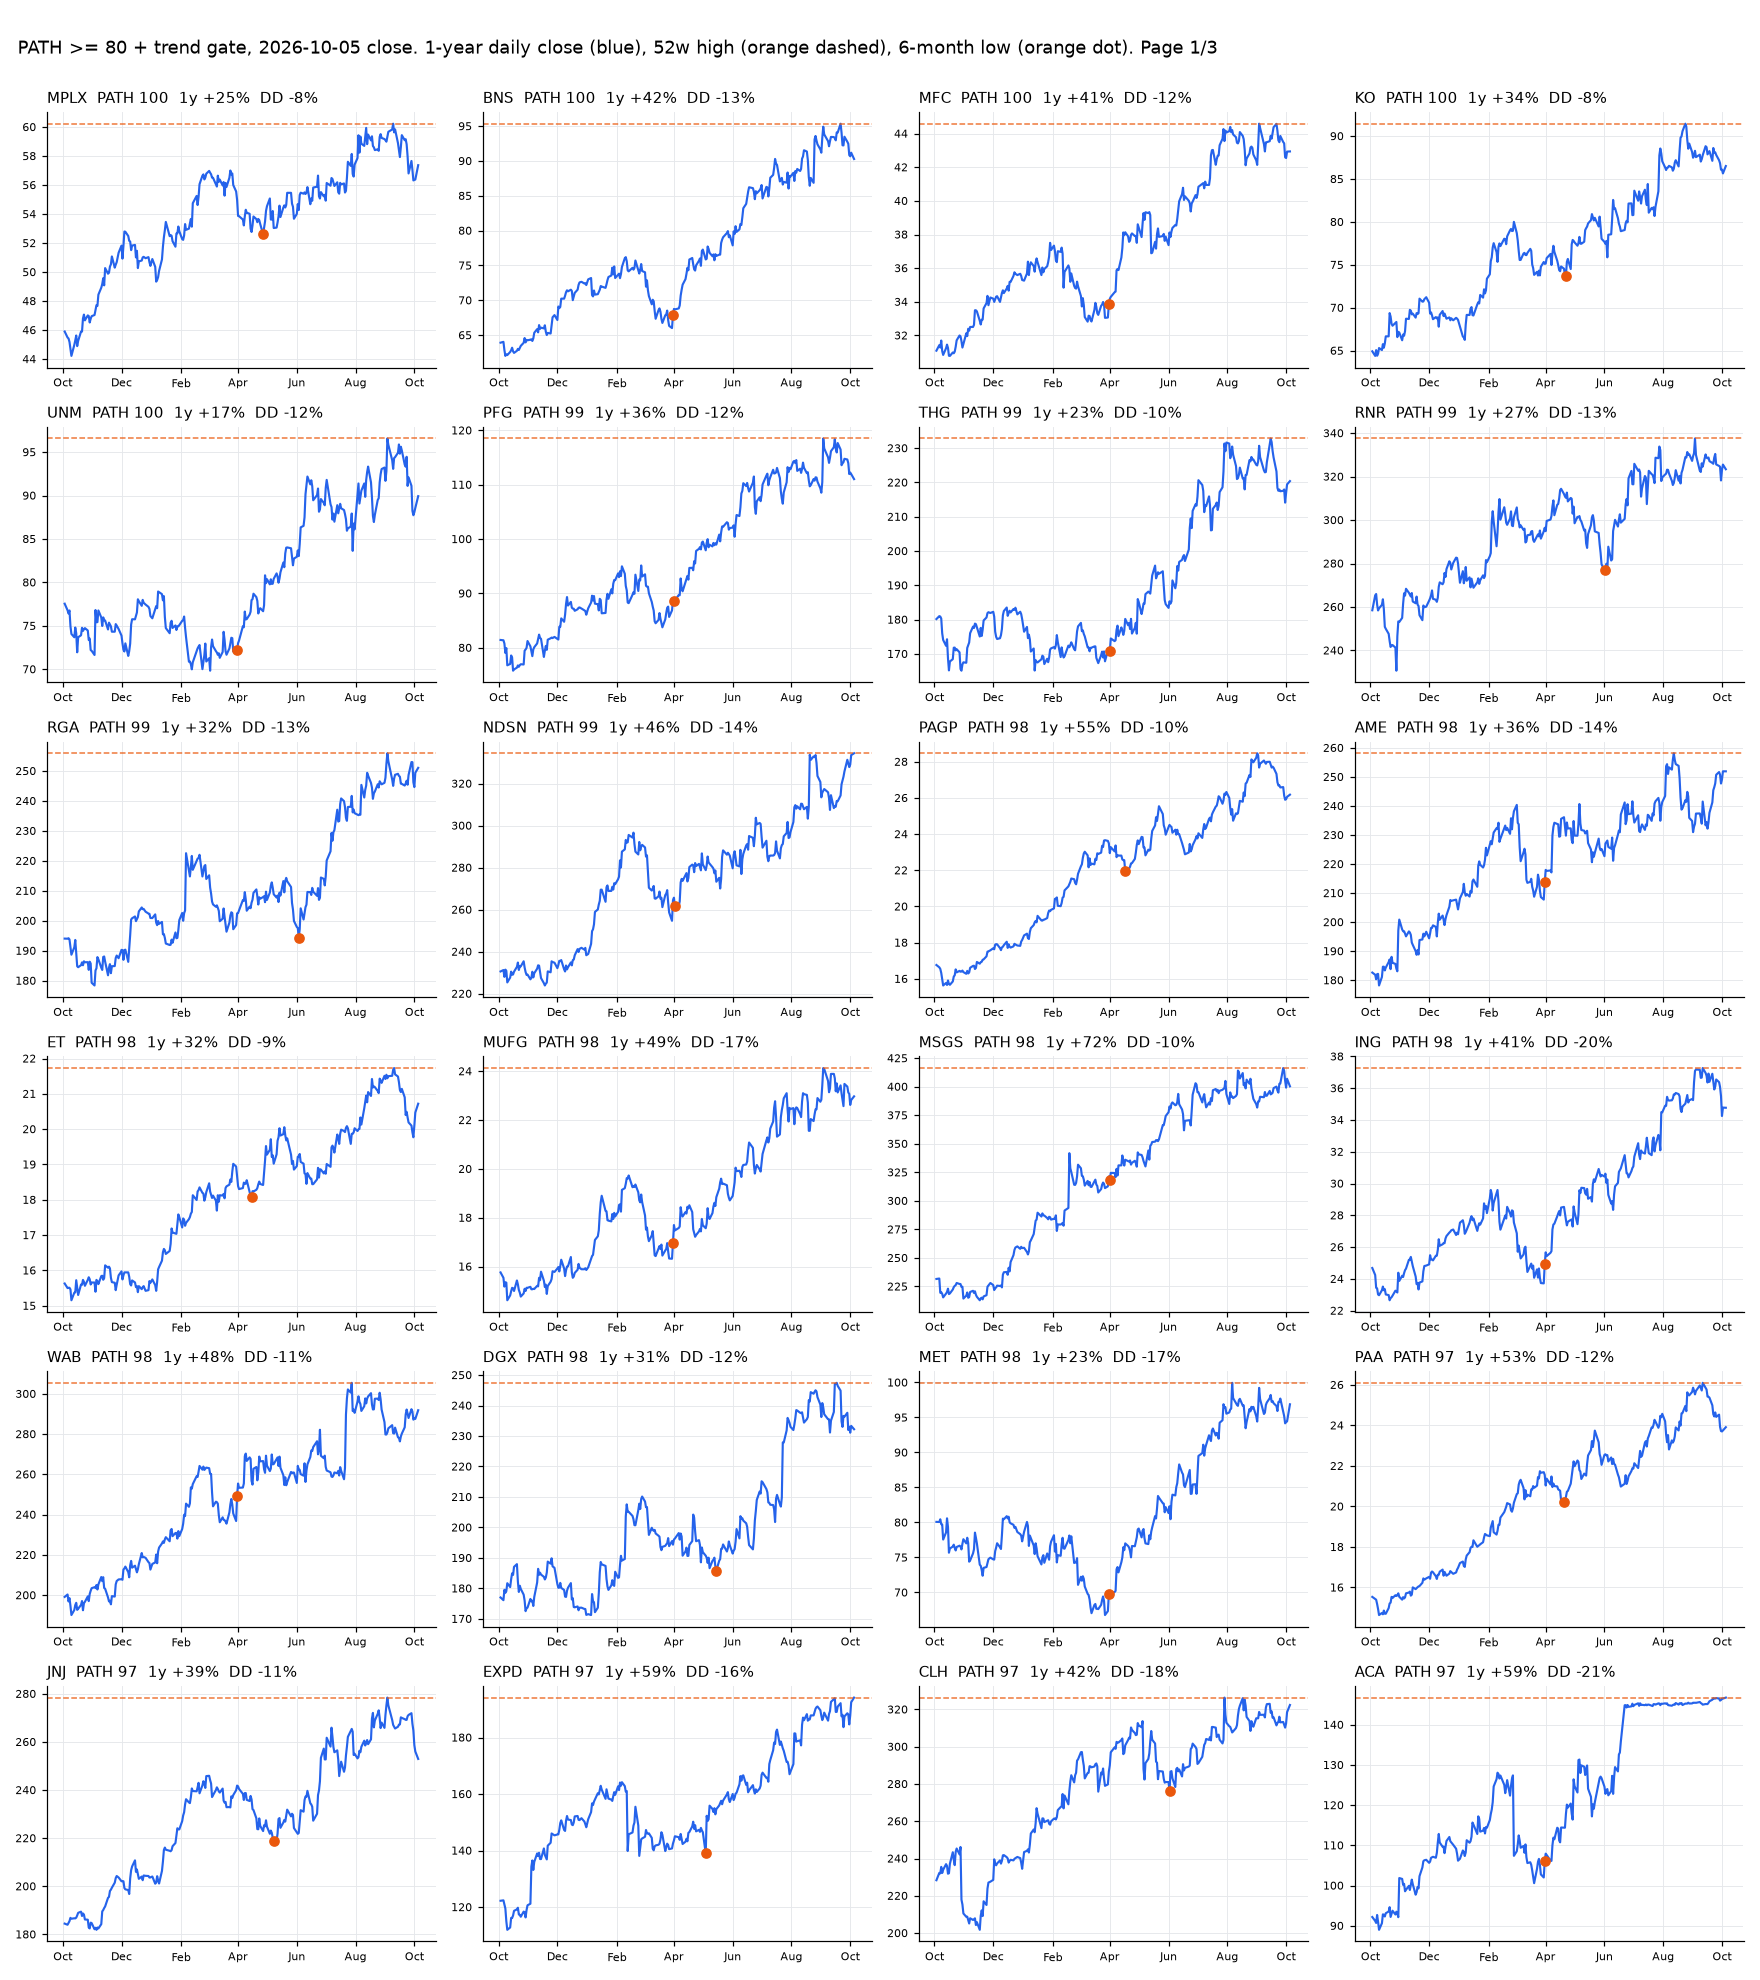
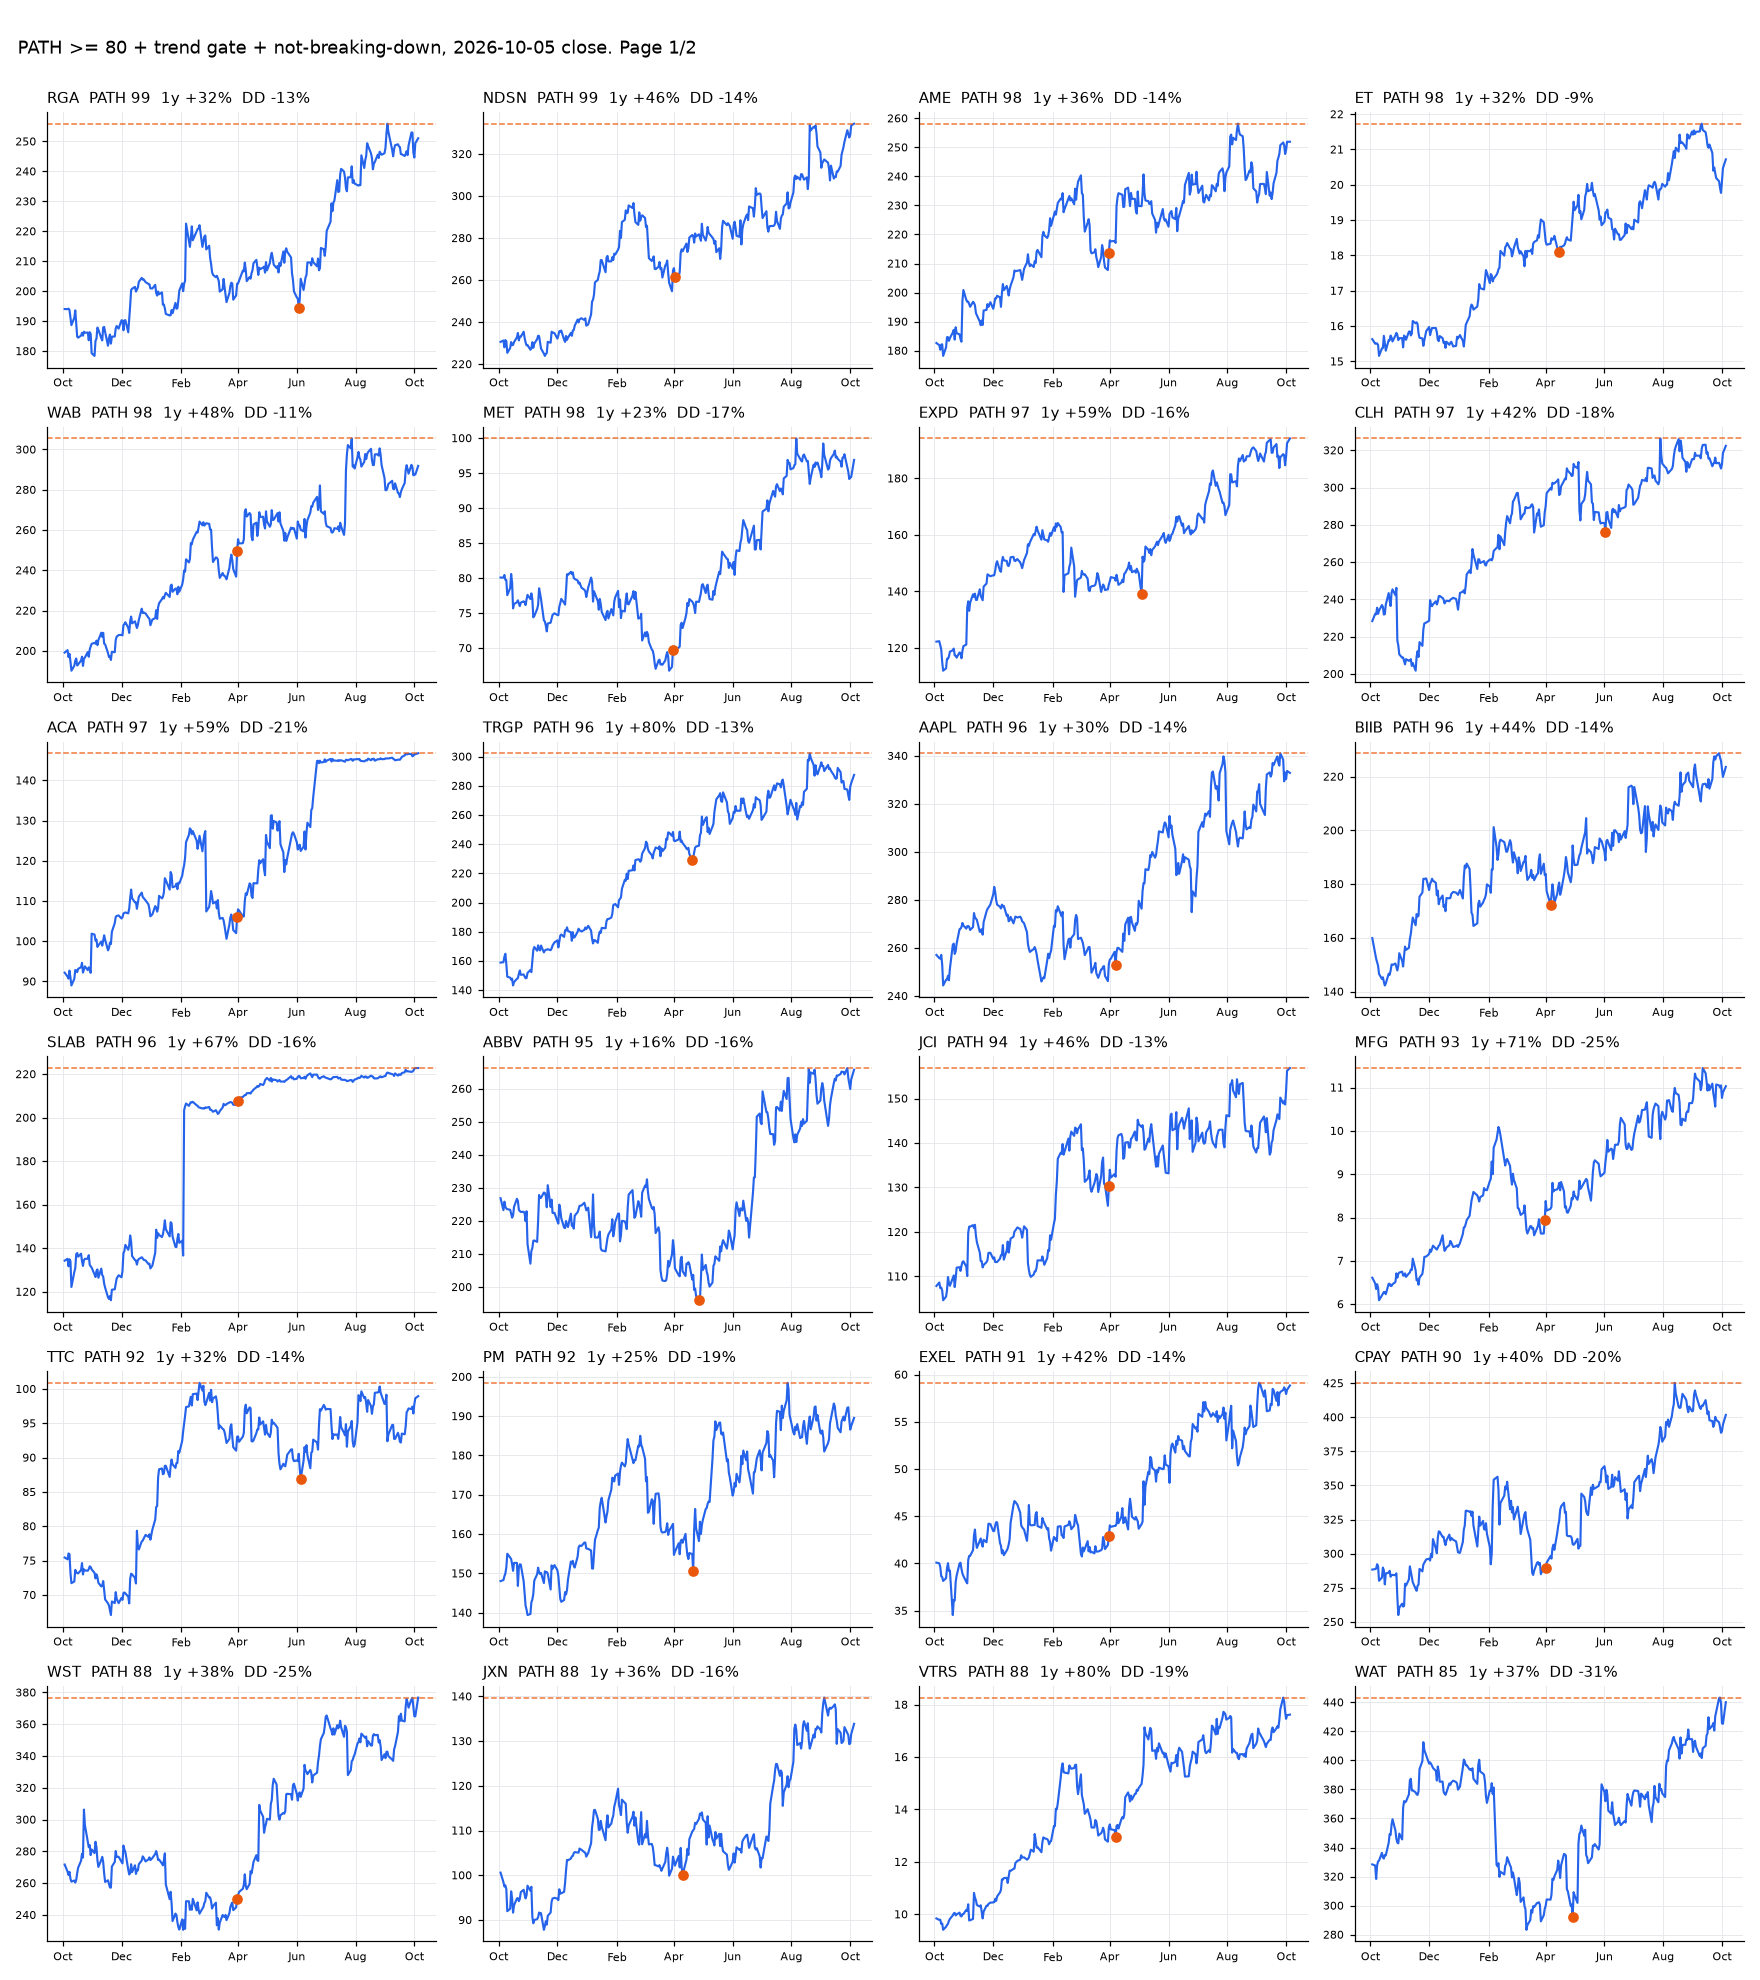
Add not-breaking-down condition to the PATH gate; regenerate list and charts
Claude-Session: https://claude.ai/code/session_01WK2DdTLBn44brDKSen1SU1

diff --git a/footprint_screen.py b/footprint_screen.py
@@ -47,6 +47,7 @@ def feat(s):
     for n in [60,120,250]:
         y=lc[-n:]; x=np.arange(n); b_,a_=np.polyfit(x,y,1); m[f'slope_{n}']=b_*252; m[f'resid_{n}']=np.std(y-(a_+b_*x)); cn=c.iloc[-n:]; ddn=cn/cn.cummax()-1; m[f'maxDD_{n}']=ddn.min(); m[f'within5_{n}']=(ddn>-0.05).mean()
     wk=s.iloc[-130:].resample('W-FRI').agg({'Low':'min'}); m['wkHL_26']=(wk.Low.iloc[-26:].diff()>0).mean(); dd250=c.iloc[-250:]/c.iloc[-250:].cummax()-1; m['maxDD_days_ago']=L-1-c.index.get_loc(dd250.idxmin())
+    m['days_since_60dlow']=L-1-c.index.get_loc(c.iloc[-60:].idxmin()); m['dd_from_20dH']=c.iloc[-1]/h.iloc[-20:].max()-1
     cp=((c-l)/(h-l)).fillna(0.5).iloc[-60:]; m['top30-bot30_60']=(cp>0.7).mean()-(cp<0.3).mean(); va=v.rolling(20).mean(); m['dryup120']=va.iloc[-120:].min()/v.iloc[-250:].mean()
     o=s.Open; on=(o/c.shift(1)-1).iloc[-120:]; idd=(c/o-1).iloc[-120:]; m['ID-ON_120']=(np.prod(1+idd)-1)-(np.prod(1+on)-1)
     m['vol20/vol250']=v.iloc[-20:].mean()/v.iloc[-250:].mean(); m['corr60_chg']=m['corr60']-(pd.concat([r,sr],axis=1).dropna().iloc[-120:-60].corr().iloc[0,1])
@@ -57,7 +58,7 @@ z=lambda x: x.astype(float).rank(pct=True)-0.5
 T['B']=(z(T.RVrel250)+z(T.beta60)-z(T['dsince+3'])+z(T.clv20)+z(T.stoch20)+z(T['px/AVWAPlow'])-z(T['px/2yH'])-z(T.RS12)-z(T['RV10/RV60'])).rank(pct=True)*100
 T['STEADY']=(-z(T.RV250)-z(T.RV60)-z(T.beta250)-z(T.big_up_days250)-z(T.big_dn_days250)-z(T.skew250)+z(T.mhit12)+z(T.UVDV250)+z(T.pctup250)+z(T['px/52wH'])).rank(pct=True)*100
 T['PATH']=(z(T.maxDD_60)+z(T.maxDD_120)+z(T.maxDD_250)+z(T.within5_120)+z(T.within5_250)-z(T.resid_120)-z(T.resid_250)-z(T.RV250)-z(T.big_dn_days250)+z(T['px/52wH'])+z(T.wkHL_26)+z(T.maxDD_days_ago)).rank(pct=True)*100
-T['GATE']=(T.slope_60>0.03)&(T.slope_120>0)&(T.ret_12m>=0.15)&(T['px/52wH']>=0.85)&((T.maxDD_250>-0.15)|(T.maxDD_days_ago>100))
+T['GATE']=(T.slope_60>0.03)&(T.slope_120>0)&(T.ret_12m>=0.15)&(T['px/52wH']>=0.85)&((T.maxDD_250>-0.15)|(T.maxDD_days_ago>100))&(T.stoch20>0.5)&(T.days_since_60dlow>=5)&(T.dd_from_20dH>-0.06)
 T['SMOOTH']=(-z(T.RVrel250)-z(T.RV250)-z(T.RV60)-z(T.big_up_days250)-z(T.beta250)-z(T.big_dn_days250)-z(T.beta60)-z(T.skew250)+z(T['top30-bot30_60'])+z(T.dryup120)+z(T.UVDV250)+z(T.mhit12)+z(T.pctup250)+z(T['px/52wH'])+z(T['px/2yH'])+z(T['dsince+3'])).rank(pct=True)*100
 T['NEARTERM']=(z(T['n+3/n-3_60'])+z(T.UVDV60)).rank(pct=True)*100
 T['TURN']=(T.stoch20>0.8)&(T['px/AVWAPlow']>1.0)&(T.UVDV60>1.0)
